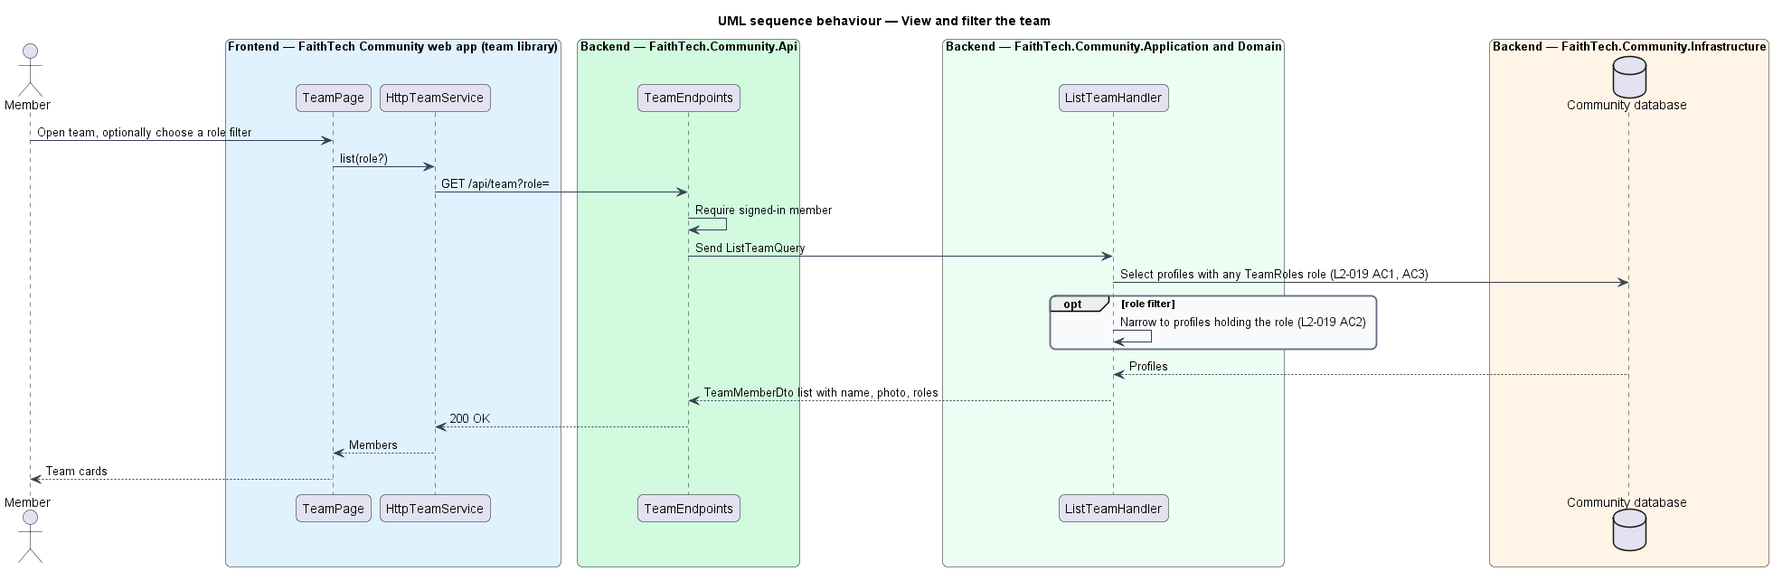
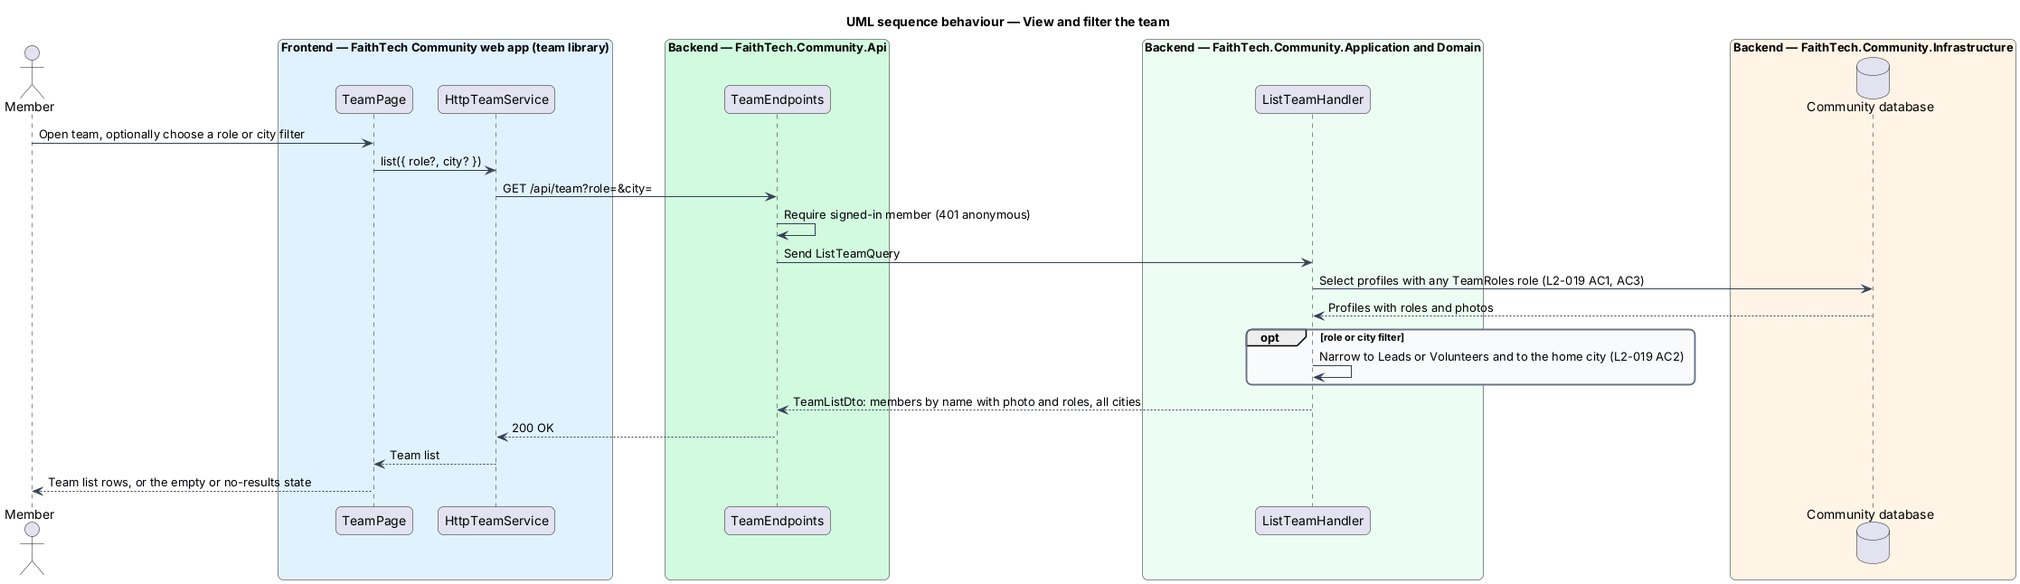
Close the team list documentation gaps
Record the filter values, default city, order and photo avatar in ADR 0007,
align the team mocks (photo avatar, All cities default, invite link, the
no-results chip), the design system's avatar and list pages, the screen
composition and the design's diagrams.

Claude-Session: https://claude.ai/code/session_018tigVHhJsJT7kAH3SsNvjZ

diff --git a/docs/mocks/pages/team/default.html b/docs/mocks/pages/team/default.html
@@ -31,8 +31,8 @@
   <a class="avatar-trigger" href="../../pages/profile/own.html" aria-label="Your profile, Grace Okonkwo"><span class="avatar avatar--sm avatar--sky" aria-hidden="true">GO</span></a>
 </header>
 <main id="main" class="container">
-<div class="page-header"><div><h1>Team</h1><p class="subtitle">Everyone with a lead or volunteer role</p></div><div class="cluster"><a class="btn btn--primary" href="../../dialogs/send-invite/default.html"><svg class="icon" aria-hidden="true" viewBox="0 0 24 24"><path d="M22 2 11 13M22 2l-7 20-4-9-9-4z"/></svg>Invite someone</a></div></div><div class="cluster" style="margin-bottom: var(--space-4);"><button class="chip" type="button" aria-pressed="true">All</button><button class="chip" type="button" aria-pressed="false">Leads</button><button class="chip" type="button" aria-pressed="false">Volunteers</button>
-<div style="width: 12rem; margin-left: auto;"><div class="field"><label class="field__label" for="tm-city">City</label><select class="select" id="tm-city" name="tm-city"><option selected>Toronto</option><option>Austin</option><option>Vancouver</option><option>All cities</option></select></div></div></div><ul class="list card card--flush"><li class="list__item"><span class="avatar avatar--sm avatar--sky" aria-hidden="true">GO</span><div class="list__body"><a class="list__title" href="../../pages/profile/default.html">Grace Okonkwo</a><div class="list__meta cluster" style="gap: var(--space-1);"><span class="badge badge--role">City Lead</span></div></div></li><li class="list__item"><span class="avatar avatar--sm avatar--sun" aria-hidden="true">ML</span><div class="list__body"><a class="list__title" href="../../pages/profile/default.html">Marcus Lee</a><div class="list__meta cluster" style="gap: var(--space-1);"><span class="badge badge--role">Event Lead</span></div></div></li><li class="list__item"><span class="avatar avatar--sm avatar--lilac" aria-hidden="true">HK</span><div class="list__body"><a class="list__title" href="../../pages/profile/default.html">Hannah Kim</a><div class="list__meta cluster" style="gap: var(--space-1);"><span class="badge badge--role">Communications Lead</span></div></div></li><li class="list__item"><span class="avatar avatar--sm avatar--mint" aria-hidden="true">SM</span><div class="list__body"><a class="list__title" href="../../pages/profile/default.html">Samuel Mensah</a><div class="list__meta cluster" style="gap: var(--space-1);"><span class="badge badge--role">Create Lead</span> <span class="badge badge--role">Product Engineer</span></div></div></li><li class="list__item"><span class="avatar avatar--sm avatar--rose" aria-hidden="true">RA</span><div class="list__body"><a class="list__title" href="../../pages/profile/default.html">Ruth Alvarez</a><div class="list__meta cluster" style="gap: var(--space-1);"><span class="badge badge--role">Volunteer</span></div></div></li></ul>
+<div class="page-header"><div><h1>Team</h1><p class="subtitle">Everyone with a lead or volunteer role</p></div><div class="cluster"><a class="btn btn--primary" href="../../pages/invites/default.html"><svg class="icon" aria-hidden="true" viewBox="0 0 24 24"><path d="M22 2 11 13M22 2l-7 20-4-9-9-4z"/></svg>Invite someone</a></div></div><div class="cluster" style="margin-bottom: var(--space-4);"><button class="chip" type="button" aria-pressed="true">All</button><button class="chip" type="button" aria-pressed="false">Leads</button><button class="chip" type="button" aria-pressed="false">Volunteers</button>
+<div style="width: 12rem; margin-left: auto;"><div class="field"><label class="field__label" for="tm-city">City</label><select class="select" id="tm-city" name="tm-city"><option selected>All cities</option><option>Austin</option><option>Toronto</option><option>Vancouver</option></select></div></div></div><ul class="list card card--flush"><li class="list__item"><span class="avatar avatar--sm avatar--sky" aria-hidden="true">GO<img class="avatar__img" src="../../assets/photos/builders-night.svg" alt=""></span><div class="list__body"><a class="list__title" href="../../pages/profile/default.html">Grace Okonkwo</a><div class="list__meta cluster" style="gap: var(--space-1);"><span class="badge badge--role">City Lead</span></div></div></li><li class="list__item"><span class="avatar avatar--sm avatar--sun" aria-hidden="true">ML</span><div class="list__body"><a class="list__title" href="../../pages/profile/default.html">Marcus Lee</a><div class="list__meta cluster" style="gap: var(--space-1);"><span class="badge badge--role">Event Lead</span></div></div></li><li class="list__item"><span class="avatar avatar--sm avatar--lilac" aria-hidden="true">HK</span><div class="list__body"><a class="list__title" href="../../pages/profile/default.html">Hannah Kim</a><div class="list__meta cluster" style="gap: var(--space-1);"><span class="badge badge--role">Communications Lead</span></div></div></li><li class="list__item"><span class="avatar avatar--sm avatar--mint" aria-hidden="true">SM</span><div class="list__body"><a class="list__title" href="../../pages/profile/default.html">Samuel Mensah</a><div class="list__meta cluster" style="gap: var(--space-1);"><span class="badge badge--role">Create Lead</span> <span class="badge badge--role">Product Engineer</span></div></div></li><li class="list__item"><span class="avatar avatar--sm avatar--rose" aria-hidden="true">RA</span><div class="list__body"><a class="list__title" href="../../pages/profile/default.html">Ruth Alvarez</a><div class="list__meta cluster" style="gap: var(--space-1);"><span class="badge badge--role">Volunteer</span></div></div></li></ul>
 </main>
 <nav class="tabbar" aria-label="Primary, phone"><a href="../../pages/home/default.html"><svg class="icon" aria-hidden="true" viewBox="0 0 24 24"><path d="M3 12 12 3l9 9M5 10v10h14V10"/></svg>Home</a><a href="../../pages/events/default.html"><svg class="icon" aria-hidden="true" viewBox="0 0 24 24"><rect x="3" y="5" width="18" height="16" rx="2"/><path d="M3 10h18M8 3v4M16 3v4"/></svg>Events</a><a href="../../pages/search/default.html"><svg class="icon" aria-hidden="true" viewBox="0 0 24 24"><circle cx="11" cy="11" r="7"/><path d="m20 20-3.5-3.5"/></svg>Search</a><a href="../../pages/contacts/default.html"><svg class="icon" aria-hidden="true" viewBox="0 0 24 24"><rect x="3" y="4" width="18" height="16" rx="2"/><circle cx="9" cy="11" r="2.5"/><path d="M5.5 17a3.5 3.5 0 0 1 7 0M15 9h3M15 13h3"/></svg>Contacts</a><a href="../../pages/partners/default.html"><svg class="icon" aria-hidden="true" viewBox="0 0 24 24"><path d="M2 12l4-4 4 2 4-4 4 4 4 2M6 8v7l4 4 2-2 2 2 4-4v-5"/></svg>Partners</a></nav>
 </div>

diff --git a/docs/mocks/pages/team/loading.html b/docs/mocks/pages/team/loading.html
@@ -31,8 +31,8 @@
   <a class="avatar-trigger" href="../../pages/profile/own.html" aria-label="Your profile, Grace Okonkwo"><span class="avatar avatar--sm avatar--sky" aria-hidden="true">GO</span></a>
 </header>
 <main id="main" class="container">
-<div class="page-header"><div><h1>Team</h1><p class="subtitle">Everyone with a lead or volunteer role</p></div><div class="cluster"><a class="btn btn--primary" href="../../dialogs/send-invite/default.html"><svg class="icon" aria-hidden="true" viewBox="0 0 24 24"><path d="M22 2 11 13M22 2l-7 20-4-9-9-4z"/></svg>Invite someone</a></div></div><div class="cluster" style="margin-bottom: var(--space-4);"><button class="chip" type="button" aria-pressed="true">All</button><button class="chip" type="button" aria-pressed="false">Leads</button><button class="chip" type="button" aria-pressed="false">Volunteers</button>
-<div style="width: 12rem; margin-left: auto;"><div class="field"><label class="field__label" for="tm-city">City</label><select class="select" id="tm-city" name="tm-city"><option selected>Toronto</option><option>Austin</option><option>Vancouver</option><option>All cities</option></select></div></div></div><div class="card card--flush" aria-busy="true" aria-label="Loading team"><div class="list__item"><span class="skeleton avatar avatar--sm" aria-hidden="true"></span><div class="list__body" style="flex:1;"><span class="skeleton skeleton--title" aria-hidden="true"></span><span class="skeleton skeleton--text" aria-hidden="true"></span></div></div><div class="list__item"><span class="skeleton avatar avatar--sm" aria-hidden="true"></span><div class="list__body" style="flex:1;"><span class="skeleton skeleton--title" aria-hidden="true"></span><span class="skeleton skeleton--text" aria-hidden="true"></span></div></div><div class="list__item"><span class="skeleton avatar avatar--sm" aria-hidden="true"></span><div class="list__body" style="flex:1;"><span class="skeleton skeleton--title" aria-hidden="true"></span><span class="skeleton skeleton--text" aria-hidden="true"></span></div></div><div class="list__item"><span class="skeleton avatar avatar--sm" aria-hidden="true"></span><div class="list__body" style="flex:1;"><span class="skeleton skeleton--title" aria-hidden="true"></span><span class="skeleton skeleton--text" aria-hidden="true"></span></div></div><div class="list__item"><span class="skeleton avatar avatar--sm" aria-hidden="true"></span><div class="list__body" style="flex:1;"><span class="skeleton skeleton--title" aria-hidden="true"></span><span class="skeleton skeleton--text" aria-hidden="true"></span></div></div></div>
+<div class="page-header"><div><h1>Team</h1><p class="subtitle">Everyone with a lead or volunteer role</p></div><div class="cluster"><a class="btn btn--primary" href="../../pages/invites/default.html"><svg class="icon" aria-hidden="true" viewBox="0 0 24 24"><path d="M22 2 11 13M22 2l-7 20-4-9-9-4z"/></svg>Invite someone</a></div></div><div class="cluster" style="margin-bottom: var(--space-4);"><button class="chip" type="button" aria-pressed="true">All</button><button class="chip" type="button" aria-pressed="false">Leads</button><button class="chip" type="button" aria-pressed="false">Volunteers</button>
+<div style="width: 12rem; margin-left: auto;"><div class="field"><label class="field__label" for="tm-city">City</label><select class="select" id="tm-city" name="tm-city"><option selected>All cities</option><option>Austin</option><option>Toronto</option><option>Vancouver</option></select></div></div></div><div class="card card--flush" aria-busy="true" aria-label="Loading team"><div class="list__item"><span class="skeleton avatar avatar--sm" aria-hidden="true"></span><div class="list__body" style="flex:1;"><span class="skeleton skeleton--title" aria-hidden="true"></span><span class="skeleton skeleton--text" aria-hidden="true"></span></div></div><div class="list__item"><span class="skeleton avatar avatar--sm" aria-hidden="true"></span><div class="list__body" style="flex:1;"><span class="skeleton skeleton--title" aria-hidden="true"></span><span class="skeleton skeleton--text" aria-hidden="true"></span></div></div><div class="list__item"><span class="skeleton avatar avatar--sm" aria-hidden="true"></span><div class="list__body" style="flex:1;"><span class="skeleton skeleton--title" aria-hidden="true"></span><span class="skeleton skeleton--text" aria-hidden="true"></span></div></div><div class="list__item"><span class="skeleton avatar avatar--sm" aria-hidden="true"></span><div class="list__body" style="flex:1;"><span class="skeleton skeleton--title" aria-hidden="true"></span><span class="skeleton skeleton--text" aria-hidden="true"></span></div></div><div class="list__item"><span class="skeleton avatar avatar--sm" aria-hidden="true"></span><div class="list__body" style="flex:1;"><span class="skeleton skeleton--title" aria-hidden="true"></span><span class="skeleton skeleton--text" aria-hidden="true"></span></div></div></div>
 </main>
 <nav class="tabbar" aria-label="Primary, phone"><a href="../../pages/home/default.html"><svg class="icon" aria-hidden="true" viewBox="0 0 24 24"><path d="M3 12 12 3l9 9M5 10v10h14V10"/></svg>Home</a><a href="../../pages/events/default.html"><svg class="icon" aria-hidden="true" viewBox="0 0 24 24"><rect x="3" y="5" width="18" height="16" rx="2"/><path d="M3 10h18M8 3v4M16 3v4"/></svg>Events</a><a href="../../pages/search/default.html"><svg class="icon" aria-hidden="true" viewBox="0 0 24 24"><circle cx="11" cy="11" r="7"/><path d="m20 20-3.5-3.5"/></svg>Search</a><a href="../../pages/contacts/default.html"><svg class="icon" aria-hidden="true" viewBox="0 0 24 24"><rect x="3" y="4" width="18" height="16" rx="2"/><circle cx="9" cy="11" r="2.5"/><path d="M5.5 17a3.5 3.5 0 0 1 7 0M15 9h3M15 13h3"/></svg>Contacts</a><a href="../../pages/partners/default.html"><svg class="icon" aria-hidden="true" viewBox="0 0 24 24"><path d="M2 12l4-4 4 2 4-4 4 4 4 2M6 8v7l4 4 2-2 2 2 4-4v-5"/></svg>Partners</a></nav>
 </div>

diff --git a/docs/mocks/pages/team/member.html b/docs/mocks/pages/team/member.html
@@ -32,7 +32,7 @@
 </header>
 <main id="main" class="container">
 <div class="page-header"><div><h1>Team</h1><p class="subtitle">Everyone with a lead or volunteer role</p></div></div><div class="cluster" style="margin-bottom: var(--space-4);"><button class="chip" type="button" aria-pressed="true">All</button><button class="chip" type="button" aria-pressed="false">Leads</button><button class="chip" type="button" aria-pressed="false">Volunteers</button>
-<div style="width: 12rem; margin-left: auto;"><div class="field"><label class="field__label" for="tm-city">City</label><select class="select" id="tm-city" name="tm-city"><option selected>Toronto</option><option>Austin</option><option>Vancouver</option><option>All cities</option></select></div></div></div><ul class="list card card--flush"><li class="list__item"><span class="avatar avatar--sm avatar--sky" aria-hidden="true">GO</span><div class="list__body"><a class="list__title" href="../../pages/profile/default.html">Grace Okonkwo</a><div class="list__meta cluster" style="gap: var(--space-1);"><span class="badge badge--role">City Lead</span></div></div></li><li class="list__item"><span class="avatar avatar--sm avatar--sun" aria-hidden="true">ML</span><div class="list__body"><a class="list__title" href="../../pages/profile/default.html">Marcus Lee</a><div class="list__meta cluster" style="gap: var(--space-1);"><span class="badge badge--role">Event Lead</span></div></div></li><li class="list__item"><span class="avatar avatar--sm avatar--lilac" aria-hidden="true">HK</span><div class="list__body"><a class="list__title" href="../../pages/profile/default.html">Hannah Kim</a><div class="list__meta cluster" style="gap: var(--space-1);"><span class="badge badge--role">Communications Lead</span></div></div></li><li class="list__item"><span class="avatar avatar--sm avatar--mint" aria-hidden="true">SM</span><div class="list__body"><a class="list__title" href="../../pages/profile/default.html">Samuel Mensah</a><div class="list__meta cluster" style="gap: var(--space-1);"><span class="badge badge--role">Create Lead</span> <span class="badge badge--role">Product Engineer</span></div></div></li><li class="list__item"><span class="avatar avatar--sm avatar--rose" aria-hidden="true">RA</span><div class="list__body"><a class="list__title" href="../../pages/profile/default.html">Ruth Alvarez</a><div class="list__meta cluster" style="gap: var(--space-1);"><span class="badge badge--role">Volunteer</span></div></div></li></ul>
+<div style="width: 12rem; margin-left: auto;"><div class="field"><label class="field__label" for="tm-city">City</label><select class="select" id="tm-city" name="tm-city"><option selected>All cities</option><option>Austin</option><option>Toronto</option><option>Vancouver</option></select></div></div></div><ul class="list card card--flush"><li class="list__item"><span class="avatar avatar--sm avatar--sky" aria-hidden="true">GO<img class="avatar__img" src="../../assets/photos/builders-night.svg" alt=""></span><div class="list__body"><a class="list__title" href="../../pages/profile/default.html">Grace Okonkwo</a><div class="list__meta cluster" style="gap: var(--space-1);"><span class="badge badge--role">City Lead</span></div></div></li><li class="list__item"><span class="avatar avatar--sm avatar--sun" aria-hidden="true">ML</span><div class="list__body"><a class="list__title" href="../../pages/profile/default.html">Marcus Lee</a><div class="list__meta cluster" style="gap: var(--space-1);"><span class="badge badge--role">Event Lead</span></div></div></li><li class="list__item"><span class="avatar avatar--sm avatar--lilac" aria-hidden="true">HK</span><div class="list__body"><a class="list__title" href="../../pages/profile/default.html">Hannah Kim</a><div class="list__meta cluster" style="gap: var(--space-1);"><span class="badge badge--role">Communications Lead</span></div></div></li><li class="list__item"><span class="avatar avatar--sm avatar--mint" aria-hidden="true">SM</span><div class="list__body"><a class="list__title" href="../../pages/profile/default.html">Samuel Mensah</a><div class="list__meta cluster" style="gap: var(--space-1);"><span class="badge badge--role">Create Lead</span> <span class="badge badge--role">Product Engineer</span></div></div></li><li class="list__item"><span class="avatar avatar--sm avatar--rose" aria-hidden="true">RA</span><div class="list__body"><a class="list__title" href="../../pages/profile/default.html">Ruth Alvarez</a><div class="list__meta cluster" style="gap: var(--space-1);"><span class="badge badge--role">Volunteer</span></div></div></li></ul>
 </main>
 <nav class="tabbar" aria-label="Primary, phone"><a href="../../pages/home/default.html"><svg class="icon" aria-hidden="true" viewBox="0 0 24 24"><path d="M3 12 12 3l9 9M5 10v10h14V10"/></svg>Home</a><a href="../../pages/events/default.html"><svg class="icon" aria-hidden="true" viewBox="0 0 24 24"><rect x="3" y="5" width="18" height="16" rx="2"/><path d="M3 10h18M8 3v4M16 3v4"/></svg>Events</a><a href="../../pages/search/default.html"><svg class="icon" aria-hidden="true" viewBox="0 0 24 24"><circle cx="11" cy="11" r="7"/><path d="m20 20-3.5-3.5"/></svg>Search</a></nav>
 </div>

diff --git a/docs/mocks/pages/team/empty.html b/docs/mocks/pages/team/empty.html
@@ -31,8 +31,8 @@
   <a class="avatar-trigger" href="../../pages/profile/own.html" aria-label="Your profile, Grace Okonkwo"><span class="avatar avatar--sm avatar--sky" aria-hidden="true">GO</span></a>
 </header>
 <main id="main" class="container">
-<div class="page-header"><div><h1>Team</h1><p class="subtitle">Everyone with a lead or volunteer role</p></div><div class="cluster"><a class="btn btn--primary" href="../../dialogs/send-invite/default.html"><svg class="icon" aria-hidden="true" viewBox="0 0 24 24"><path d="M22 2 11 13M22 2l-7 20-4-9-9-4z"/></svg>Invite someone</a></div></div><div class="cluster" style="margin-bottom: var(--space-4);"><button class="chip" type="button" aria-pressed="true">All</button><button class="chip" type="button" aria-pressed="false">Leads</button><button class="chip" type="button" aria-pressed="false">Volunteers</button>
-<div style="width: 12rem; margin-left: auto;"><div class="field"><label class="field__label" for="tm-city">City</label><select class="select" id="tm-city" name="tm-city"><option selected>Toronto</option><option>Austin</option><option>Vancouver</option><option>All cities</option></select></div></div></div><div class="empty"><span class="empty__icon" aria-hidden="true"><svg class="icon icon--lg" aria-hidden="true" viewBox="0 0 24 24"><circle cx="9" cy="8" r="4"/><path d="M2 21a7 7 0 0 1 14 0M16 3.5a4 4 0 0 1 0 7.5M22 21a7 7 0 0 0-4-6.3"/></svg></span><h2 class="empty__title">No team yet in Toronto</h2><p class="empty__text">Your team is everyone with a lead or volunteer role. Invite people, then give them a role.</p><div class="empty__actions"><a class="btn btn--primary" href="../../dialogs/send-invite/default.html"><svg class="icon" aria-hidden="true" viewBox="0 0 24 24"><path d="M22 2 11 13M22 2l-7 20-4-9-9-4z"/></svg>Invite someone</a></div></div>
+<div class="page-header"><div><h1>Team</h1><p class="subtitle">Everyone with a lead or volunteer role</p></div><div class="cluster"><a class="btn btn--primary" href="../../pages/invites/default.html"><svg class="icon" aria-hidden="true" viewBox="0 0 24 24"><path d="M22 2 11 13M22 2l-7 20-4-9-9-4z"/></svg>Invite someone</a></div></div><div class="cluster" style="margin-bottom: var(--space-4);"><button class="chip" type="button" aria-pressed="true">All</button><button class="chip" type="button" aria-pressed="false">Leads</button><button class="chip" type="button" aria-pressed="false">Volunteers</button>
+<div style="width: 12rem; margin-left: auto;"><div class="field"><label class="field__label" for="tm-city">City</label><select class="select" id="tm-city" name="tm-city"><option selected>All cities</option><option>Austin</option><option>Toronto</option><option>Vancouver</option></select></div></div></div><div class="empty"><span class="empty__icon" aria-hidden="true"><svg class="icon icon--lg" aria-hidden="true" viewBox="0 0 24 24"><circle cx="9" cy="8" r="4"/><path d="M2 21a7 7 0 0 1 14 0M16 3.5a4 4 0 0 1 0 7.5M22 21a7 7 0 0 0-4-6.3"/></svg></span><h2 class="empty__title">No team yet</h2><p class="empty__text">Your team is everyone with a lead or volunteer role. Invite people, then give them a role.</p><div class="empty__actions"><a class="btn btn--primary" href="../../pages/invites/default.html"><svg class="icon" aria-hidden="true" viewBox="0 0 24 24"><path d="M22 2 11 13M22 2l-7 20-4-9-9-4z"/></svg>Invite someone</a></div></div>
 </main>
 <nav class="tabbar" aria-label="Primary, phone"><a href="../../pages/home/default.html"><svg class="icon" aria-hidden="true" viewBox="0 0 24 24"><path d="M3 12 12 3l9 9M5 10v10h14V10"/></svg>Home</a><a href="../../pages/events/default.html"><svg class="icon" aria-hidden="true" viewBox="0 0 24 24"><rect x="3" y="5" width="18" height="16" rx="2"/><path d="M3 10h18M8 3v4M16 3v4"/></svg>Events</a><a href="../../pages/search/default.html"><svg class="icon" aria-hidden="true" viewBox="0 0 24 24"><circle cx="11" cy="11" r="7"/><path d="m20 20-3.5-3.5"/></svg>Search</a><a href="../../pages/contacts/default.html"><svg class="icon" aria-hidden="true" viewBox="0 0 24 24"><rect x="3" y="4" width="18" height="16" rx="2"/><circle cx="9" cy="11" r="2.5"/><path d="M5.5 17a3.5 3.5 0 0 1 7 0M15 9h3M15 13h3"/></svg>Contacts</a><a href="../../pages/partners/default.html"><svg class="icon" aria-hidden="true" viewBox="0 0 24 24"><path d="M2 12l4-4 4 2 4-4 4 4 4 2M6 8v7l4 4 2-2 2 2 4-4v-5"/></svg>Partners</a></nav>
 </div>

diff --git a/docs/mocks/pages/team/error.html b/docs/mocks/pages/team/error.html
@@ -31,8 +31,8 @@
   <a class="avatar-trigger" href="../../pages/profile/own.html" aria-label="Your profile, Grace Okonkwo"><span class="avatar avatar--sm avatar--sky" aria-hidden="true">GO</span></a>
 </header>
 <main id="main" class="container">
-<div class="page-header"><div><h1>Team</h1><p class="subtitle">Everyone with a lead or volunteer role</p></div><div class="cluster"><a class="btn btn--primary" href="../../dialogs/send-invite/default.html"><svg class="icon" aria-hidden="true" viewBox="0 0 24 24"><path d="M22 2 11 13M22 2l-7 20-4-9-9-4z"/></svg>Invite someone</a></div></div><div class="cluster" style="margin-bottom: var(--space-4);"><button class="chip" type="button" aria-pressed="true">All</button><button class="chip" type="button" aria-pressed="false">Leads</button><button class="chip" type="button" aria-pressed="false">Volunteers</button>
-<div style="width: 12rem; margin-left: auto;"><div class="field"><label class="field__label" for="tm-city">City</label><select class="select" id="tm-city" name="tm-city"><option selected>Toronto</option><option>Austin</option><option>Vancouver</option><option>All cities</option></select></div></div></div><div class="empty empty--error" role="alert"><span class="empty__icon" aria-hidden="true"><svg class="icon icon--lg" aria-hidden="true" viewBox="0 0 24 24"><circle cx="12" cy="12" r="9"/><path d="M12 8v4M12 16h.01"/></svg></span><h2 class="empty__title">We couldn’t load the team</h2><p class="empty__text">Check your connection and try again. If it keeps happening, we’ve already been told about it.</p><div class="empty__actions"><button class="btn btn--primary" type="button"><svg class="icon" aria-hidden="true" viewBox="0 0 24 24"><path d="M21 12a9 9 0 1 1-3-6.7L21 8M21 3v5h-5"/></svg>Try again</button></div></div>
+<div class="page-header"><div><h1>Team</h1><p class="subtitle">Everyone with a lead or volunteer role</p></div><div class="cluster"><a class="btn btn--primary" href="../../pages/invites/default.html"><svg class="icon" aria-hidden="true" viewBox="0 0 24 24"><path d="M22 2 11 13M22 2l-7 20-4-9-9-4z"/></svg>Invite someone</a></div></div><div class="cluster" style="margin-bottom: var(--space-4);"><button class="chip" type="button" aria-pressed="true">All</button><button class="chip" type="button" aria-pressed="false">Leads</button><button class="chip" type="button" aria-pressed="false">Volunteers</button>
+<div style="width: 12rem; margin-left: auto;"><div class="field"><label class="field__label" for="tm-city">City</label><select class="select" id="tm-city" name="tm-city"><option selected>All cities</option><option>Austin</option><option>Toronto</option><option>Vancouver</option></select></div></div></div><div class="empty empty--error" role="alert"><span class="empty__icon" aria-hidden="true"><svg class="icon icon--lg" aria-hidden="true" viewBox="0 0 24 24"><circle cx="12" cy="12" r="9"/><path d="M12 8v4M12 16h.01"/></svg></span><h2 class="empty__title">We couldn’t load the team</h2><p class="empty__text">Check your connection and try again. If it keeps happening, we’ve already been told about it.</p><div class="empty__actions"><button class="btn btn--primary" type="button"><svg class="icon" aria-hidden="true" viewBox="0 0 24 24"><path d="M21 12a9 9 0 1 1-3-6.7L21 8M21 3v5h-5"/></svg>Try again</button></div></div>
 </main>
 <nav class="tabbar" aria-label="Primary, phone"><a href="../../pages/home/default.html"><svg class="icon" aria-hidden="true" viewBox="0 0 24 24"><path d="M3 12 12 3l9 9M5 10v10h14V10"/></svg>Home</a><a href="../../pages/events/default.html"><svg class="icon" aria-hidden="true" viewBox="0 0 24 24"><rect x="3" y="5" width="18" height="16" rx="2"/><path d="M3 10h18M8 3v4M16 3v4"/></svg>Events</a><a href="../../pages/search/default.html"><svg class="icon" aria-hidden="true" viewBox="0 0 24 24"><circle cx="11" cy="11" r="7"/><path d="m20 20-3.5-3.5"/></svg>Search</a><a href="../../pages/contacts/default.html"><svg class="icon" aria-hidden="true" viewBox="0 0 24 24"><rect x="3" y="4" width="18" height="16" rx="2"/><circle cx="9" cy="11" r="2.5"/><path d="M5.5 17a3.5 3.5 0 0 1 7 0M15 9h3M15 13h3"/></svg>Contacts</a><a href="../../pages/partners/default.html"><svg class="icon" aria-hidden="true" viewBox="0 0 24 24"><path d="M2 12l4-4 4 2 4-4 4 4 4 2M6 8v7l4 4 2-2 2 2 4-4v-5"/></svg>Partners</a></nav>
 </div>

diff --git a/docs/mocks/pages/team/no-results.html b/docs/mocks/pages/team/no-results.html
@@ -31,8 +31,8 @@
   <a class="avatar-trigger" href="../../pages/profile/own.html" aria-label="Your profile, Grace Okonkwo"><span class="avatar avatar--sm avatar--sky" aria-hidden="true">GO</span></a>
 </header>
 <main id="main" class="container">
-<div class="page-header"><div><h1>Team</h1><p class="subtitle">Everyone with a lead or volunteer role</p></div><div class="cluster"><a class="btn btn--primary" href="../../dialogs/send-invite/default.html"><svg class="icon" aria-hidden="true" viewBox="0 0 24 24"><path d="M22 2 11 13M22 2l-7 20-4-9-9-4z"/></svg>Invite someone</a></div></div><div class="cluster" style="margin-bottom: var(--space-4);"><button class="chip" type="button" aria-pressed="true">All</button><button class="chip" type="button" aria-pressed="false">Leads</button><button class="chip" type="button" aria-pressed="true">Volunteers</button>
-<div style="width: 12rem; margin-left: auto;"><div class="field"><label class="field__label" for="tm-city">City</label><select class="select" id="tm-city" name="tm-city"><option>Toronto</option><option>Austin</option><option selected>Vancouver</option><option>All cities</option></select></div></div></div><div class="empty"><span class="empty__icon" aria-hidden="true"><svg class="icon icon--lg" aria-hidden="true" viewBox="0 0 24 24"><circle cx="9" cy="8" r="4"/><path d="M2 21a7 7 0 0 1 14 0M16 3.5a4 4 0 0 1 0 7.5M22 21a7 7 0 0 0-4-6.3"/></svg></span><h2 class="empty__title">No volunteers in Vancouver yet</h2><p class="empty__text">Try a different role or city.</p><div class="empty__actions"><a class="btn" href="default.html">Show everyone</a></div></div>
+<div class="page-header"><div><h1>Team</h1><p class="subtitle">Everyone with a lead or volunteer role</p></div><div class="cluster"><a class="btn btn--primary" href="../../pages/invites/default.html"><svg class="icon" aria-hidden="true" viewBox="0 0 24 24"><path d="M22 2 11 13M22 2l-7 20-4-9-9-4z"/></svg>Invite someone</a></div></div><div class="cluster" style="margin-bottom: var(--space-4);"><button class="chip" type="button" aria-pressed="false">All</button><button class="chip" type="button" aria-pressed="false">Leads</button><button class="chip" type="button" aria-pressed="true">Volunteers</button>
+<div style="width: 12rem; margin-left: auto;"><div class="field"><label class="field__label" for="tm-city">City</label><select class="select" id="tm-city" name="tm-city"><option>All cities</option><option>Austin</option><option>Toronto</option><option selected>Vancouver</option></select></div></div></div><div class="empty"><span class="empty__icon" aria-hidden="true"><svg class="icon icon--lg" aria-hidden="true" viewBox="0 0 24 24"><circle cx="9" cy="8" r="4"/><path d="M2 21a7 7 0 0 1 14 0M16 3.5a4 4 0 0 1 0 7.5M22 21a7 7 0 0 0-4-6.3"/></svg></span><h2 class="empty__title">No volunteers in Vancouver yet</h2><p class="empty__text">Try a different role or city.</p><div class="empty__actions"><a class="btn" href="default.html">Show everyone</a></div></div>
 </main>
 <nav class="tabbar" aria-label="Primary, phone"><a href="../../pages/home/default.html"><svg class="icon" aria-hidden="true" viewBox="0 0 24 24"><path d="M3 12 12 3l9 9M5 10v10h14V10"/></svg>Home</a><a href="../../pages/events/default.html"><svg class="icon" aria-hidden="true" viewBox="0 0 24 24"><rect x="3" y="5" width="18" height="16" rx="2"/><path d="M3 10h18M8 3v4M16 3v4"/></svg>Events</a><a href="../../pages/search/default.html"><svg class="icon" aria-hidden="true" viewBox="0 0 24 24"><circle cx="11" cy="11" r="7"/><path d="m20 20-3.5-3.5"/></svg>Search</a><a href="../../pages/contacts/default.html"><svg class="icon" aria-hidden="true" viewBox="0 0 24 24"><rect x="3" y="4" width="18" height="16" rx="2"/><circle cx="9" cy="11" r="2.5"/><path d="M5.5 17a3.5 3.5 0 0 1 7 0M15 9h3M15 13h3"/></svg>Contacts</a><a href="../../pages/partners/default.html"><svg class="icon" aria-hidden="true" viewBox="0 0 24 24"><path d="M2 12l4-4 4 2 4-4 4 4 4 2M6 8v7l4 4 2-2 2 2 4-4v-5"/></svg>Partners</a></nav>
 </div>

diff --git a/docs/design-system/components/avatar.html b/docs/design-system/components/avatar.html
@@ -105,7 +105,7 @@
         <li><b>Plain</b> (no colour modifier): private contacts who have not signed up, such as Abby Brooks and Kwame Asante, and suspended accounts such as Victor Kane.</li>
         <li>In Angular, use <code>&lt;ft-avatar&gt;</code> from the components library.</li>
       </ul>
-      <p>The mocks show initials only; no member photo is used as an avatar in v1 (profile photos live in the <a href="picture-list.html">picture list</a>). Do not use an avatar for status (use a <a href="badge.html">badge</a>) or for a partner organisation.</p>
+      <p>An avatar shows initials, or the member’s featured photo where a screen promises a photo, such as the <a href="../../mocks/pages/team/default.html">team list</a> (<code>.avatar__img</code>, <code>alt=""</code>, initials stay behind it as the fallback). Do not use an avatar for status (use a <a href="badge.html">badge</a>) or for a partner organisation.</p>
     </section>
 
     <section class="ds-section" id="anatomy"><h2><a href="#anatomy">Anatomy</a></h2>
@@ -130,6 +130,12 @@
         <details class="ds-example__code"><summary>HTML</summary><pre><code>&lt;span class="avatar avatar--sky" aria-hidden="true"&gt;GO&lt;/span&gt;
 &lt;span class="avatar avatar--mint" aria-hidden="true"&gt;SM&lt;/span&gt;
 &lt;span class="avatar" aria-hidden="true"&gt;KA&lt;/span&gt;</code></pre></details>
+      </div>
+      <h3>Photo</h3>
+      <div class="ds-example">
+        <div class="ds-example__canvas"><span class="avatar avatar--sky" aria-hidden="true">GO<img class="avatar__img" src="../../mocks/assets/photos/builders-night.svg" alt=""></span><span class="avatar avatar--sm avatar--sky" aria-hidden="true">GO<img class="avatar__img" src="../../mocks/assets/photos/builders-night.svg" alt=""></span></div>
+        <div class="ds-example__caption"><span>Grace’s featured photo covers her initials. The image is decorative (<code>alt=""</code>) because her name is printed beside it; without a photo the initials show.</span></div>
+        <details class="ds-example__code"><summary>HTML</summary><pre><code>&lt;span class="avatar avatar--sm avatar--sky" aria-hidden="true"&gt;GO&lt;img class="avatar__img" src="…" alt=""&gt;&lt;/span&gt;</code></pre></details>
       </div>
       <h3>Avatar trigger</h3>
       <div class="ds-example">
@@ -253,7 +259,8 @@
 &lt;span class="avatar avatar--xl avatar--mint" aria-hidden="true"&gt;SM&lt;/span&gt;
 
 &lt;!-- Angular (components library) --&gt;
-&lt;ft-avatar [name]="member.displayName" [color]="member.color" size="sm" /&gt;</code></pre>
+&lt;ft-avatar [name]="member.displayName" [color]="member.color" size="sm" /&gt;
+&lt;ft-avatar [name]="member.name" [src]="member.photoUrl" size="sm" /&gt;</code></pre>
       <table class="ds-table"><thead><tr><th scope="col">Class / attribute</th><th scope="col">Effect</th></tr></thead><tbody>
         <tr><td><code>.avatar</code></td><td>Medium circle, accent tint, centred initials.</td></tr>
         <tr><td><code>.avatar--sm</code> <code>.avatar--lg</code> <code>.avatar--xl</code></td><td>Small, large or extra large; omit for medium.</td></tr>

diff --git a/docs/design-system/components/list.html b/docs/design-system/components/list.html
@@ -257,7 +257,12 @@
 
 &lt;!-- Angular --&gt;
 &lt;ft-list&gt;
-  &lt;ft-list-item [title]="c.name" [link]="['/contacts', c.id]" [meta]="c.summary"&gt;…&lt;/ft-list-item&gt;
+  &lt;ft-list-item [label]="c.name" [href]="'/contacts/' + c.id" [meta]="c.summary"&gt;…&lt;/ft-list-item&gt;
+  &lt;!-- Role badges in the meta line: project them into the [meta] slot --&gt;
+  &lt;ft-list-item [label]="m.name" [href]="'/people/' + m.profileId"&gt;
+    &lt;ft-avatar leading [name]="m.name" [src]="m.photoUrl" size="sm" /&gt;
+    &lt;ft-cluster meta&gt;&lt;ft-badge variant="role"&gt;City Lead&lt;/ft-badge&gt;&lt;/ft-cluster&gt;
+  &lt;/ft-list-item&gt;
 &lt;/ft-list&gt;</code></pre>
       <table class="ds-table"><thead><tr><th scope="col">Class / attribute</th><th scope="col">Effect</th></tr></thead><tbody>
         <tr><td><code>.list</code></td><td>Unstyled vertical list.</td></tr>

diff --git a/docs/screen-composition.md b/docs/screen-composition.md
@@ -4,13 +4,13 @@ Which `@faithtech-community/components` parts build each screen, and what is bui
 
 **Local UI** is markup a feature library writes itself. It is limited to page composition: headings that belong to the page, sections and the glue between `api` services and components. Anything reusable goes into `components` first (`AGENTS.md`).
 
-Coverage: the profiles screens (`profile`, `edit-profile`, `delete-photo`), the admin screens (`admin-users`, `audit-log`, `add-role`, `remove-role`, `suspend-user`) and the invites screens (`invites`, `accept-invite`, `send-invite`). Other screens are added here as their features are built.
+Coverage: the profiles screens (`profile`, `edit-profile`, `delete-photo`), the admin screens (`admin-users`, `audit-log`, `add-role`, `remove-role`, `suspend-user`) the invites screens (`invites`, `accept-invite`, `send-invite`) and the team list (`team`). Other screens are added here as their features are built.
 
 ## Shell
 
 | Part | Library | Local |
 |---|---|---|
-| App shell around `/people/**`, `/admin/**`, `/invites` | `TopBarComponent` with an `AvatarComponent` link "Your profile, {name}" to `/people/me`, `NavDrawerComponent`, `TabBarComponent`, `SkipLinkComponent`, `ToastRegionComponent` (in `AppShellComponent`). System Admins get an **Admin** link (secondary) to `/admin`. | — |
+| App shell around `/people/**`, `/team`, `/admin/**`, `/invites` | `TopBarComponent` with an `AvatarComponent` link "Your profile, {name}" to `/people/me`, `NavDrawerComponent`, `TabBarComponent`, `SkipLinkComponent`, `ToastRegionComponent` (in `AppShellComponent`). System Admins get an **Admin** link (secondary) to `/admin`. | — |
 
 ## Pages
 
@@ -50,6 +50,11 @@ Coverage: the profiles screens (`profile`, `edit-profile`, `delete-photo`), the 
 - Library: `AuthLayoutComponent`, `CardComponent`, `StackComponent`, `ClusterComponent` + `AvatarComponent` + `BadgeComponent` `role` (the invitation line), `AlertComponent` (error summary "Fix N things to accept the invite"; unreachable), `FormFieldComponent` + `TextFieldComponent` (Full name; Email read-only with help; Create a password with `reveal`), `FormErrorFocusDirective`, `ButtonComponent` (*Accept and join*, *Accept invite*, *Sign in to accept*, *Create an account*, *Go home*), `EmptyStateComponent` error variant with `headingLevel` 1 (expired, used, withdrawn, unknown link, wrong account), `SkeletonComponent` while the token is checked.
 - Local: the `<form>` element and the `h1` "You’re invited".
 
+### Team — `/team` (`pages/team`: default, member, loading, empty, no-results, error)
+
+- Library: `PageHeaderComponent` ("Team", "Everyone with a lead or volunteer role") with *Invite someone* (`ButtonComponent` `primary` link to `/invites`, leads and System Admins only; `member` hides it), `ClusterComponent` of `ChipComponent` toggles (All, Leads, Volunteers; one pressed) and `FormFieldComponent` + `SelectComponent` (City: All cities and every team member's home city), `CardComponent` `flush` + `ListComponent` + `ListItemComponent` (name linking to `/people/:id`, leading `AvatarComponent` `sm` with the featured photo through `src`, `[meta]` slot holding a `BadgeComponent` `role` per role), `ListSkeletonComponent` (5 rows), `EmptyStateComponent` (empty with *Invite someone* for leads; no-results "No {volunteers|leads|team members} in {city} yet" with *Show everyone*; error with *Try again*).
+- Local: none beyond composition.
+
 ## Dialogs
 
 | Dialog (mock: states) | Surface | Library | Local |
@@ -66,4 +71,5 @@ None for profiles. Admin and invites use `ToastService` success toasts on the in
 ## Summary of local UI to build
 
 1. Admin and invites added to the library rather than building locally: `RoleDialogComponent` (shared by `profiles` and later `admin` screens, ADR 0005), `ListSkeletonComponent` (loading lists and tables), `EmptyStateComponent` `headingLevel` 1 (full-page errors on the accept-invite page), `TableComponent` now contains its visually hidden headers so tables scroll inside their frame on phones, and `formatDay` / `formatTimestamp` give the mocks' date formats from the browser's `Intl` (keeping Angular's locale data out of the initial bundle).
-2. Nothing reusable: every profiles screen is composed from the library. `PictureListComponent` gained a per-photo `pending` flag for photos chosen but not saved yet (design system: `components/picture-list.html`).
+2. Team added to the library: `AvatarComponent` `src` shows a member's featured photo over the initials (ADR 0007), and `ListItemComponent` gained a `[meta]` slot for the role-badge meta line (`components/list.html`).
+3. Nothing reusable: every profiles screen is composed from the library. `PictureListComponent` gained a per-photo `pending` flag for photos chosen but not saved yet (design system: `components/picture-list.html`).

diff --git a/docs/detailed-designs/team/team-list/README.md b/docs/detailed-designs/team/team-list/README.md
@@ -8,14 +8,15 @@ The team page lets any signed-in member see who the team is, with name, photo an
 
 ## Description
 
-- **`TeamPage`** — page in the `team` feature library. It lists team members as cards with avatar (featured photo), name and role badges, and offers a role filter.
-- **`TeamService`** / **`TEAM_SERVICE`** / **`HttpTeamService`** — API client calling `GET /api/team?role=`.
-- **`TeamEndpoints`** — minimal API mapping requiring an authenticated caller.
-- **`ListTeamQuery`** (`Role?`) and **`ListTeamHandler`** in Application `Team/`. The handler selects profiles whose roles intersect `TeamRoles`, optionally narrowed to the filtered role.
-- **`TeamRoles`** — Domain constant set: City Lead, Event Lead, Create Lead, Communications Lead, Volunteer. `TeamRoles.IsTeamMember(profile)` is true while the profile holds one of them; the Agile workspace membership rule reuses it.
-- **`TeamMemberDto`** — `ProfileId`, `Name`, `PhotoUrl`, `Roles`.
+- **`TeamPage`** — page at `/team` in the `team` feature library. It lists team members in a list card with avatar (featured photo, initials without one), name linking to the profile and role badges, and offers role chips (All, Leads, Volunteers) and a city select. Leads and System Admins see **Invite someone**, a link to `/invites`.
+- **`TeamService`** / **`TEAM_SERVICE`** / **`HttpTeamService`** — API client calling `GET /api/team?role=&city=`.
+- **`TeamEndpoints`** — minimal API mapping requiring an authenticated caller (`401` anonymous).
+- **`ListTeamQuery`** (`TeamRoleFilter?` Leads or Volunteers, `City?`) and **`ListTeamHandler`** in Application `Team/`. The handler selects profiles whose roles intersect `TeamRoles`, narrowed to `TeamRoles.Leads` or Volunteer and to a home city (case-insensitive), sorted by name.
+- **`TeamRoles`** — Domain constant sets: `All` (City Lead, Event Lead, Create Lead, Communications Lead, Volunteer) and `Leads` (the four lead roles). `TeamRoles.IsTeamMember(profile)` is true while the profile holds one of them; the Agile workspace membership rule reuses it.
+- **`TeamListDto`** — `Members` (`TeamMemberDto`) and `Cities`, every team member's distinct home city whatever the filters.
+- **`TeamMemberDto`** — `ProfileId`, `Name`, `HomeCity`, `PhotoUrl` (featured photo or `null`), `Roles` (every role held).
 
-Sort order and paging of the team list: `<TO SUPPLY>`.
+Sorted by name, no paging, opening on All and All cities ([ADR 0007](../../../adr/0007-team-list-filters-and-photos.md)).
 
 ## Requirements
 
@@ -70,3 +71,5 @@ Membership is computed from current roles, so a profile that loses its last team
 Decisions recorded while building the Domain layer (`FaithTech.Community.Domain`):
 
 - Team membership stays derived from roles through `TeamRoles.IsTeamMember`; nothing is stored. Resolved.
+- Sort order, paging, filter values, the default city and the photo avatar: resolved in [ADR 0007](../../../adr/0007-team-list-filters-and-photos.md).
+- Hiding suspended profiles from the team: deferred to the admin subsystem.

diff --git a/docs/adr/0007-team-list-filters-and-photos.md b/docs/adr/0007-team-list-filters-and-photos.md
@@ -1,0 +1,27 @@
+# 0007. Team list filters, order and photos
+
+- Status: Accepted
+- Date: 2026-10-21
+- Requirements: L2-019, L2-005
+- Designs: `docs/detailed-designs/team/team-list`
+
+## Context
+
+L2-019 asks for a team list with name, photo and roles, a role filter (Leads or Volunteers) and a city filter. The design left the sort order and paging open, the mocks showed a city preselected without saying which, and the design system said avatars carry initials only, while the requirement asks for a photo.
+
+## Decision
+
+- Membership stays derived from roles (`TeamRoles.IsTeamMember`) on every request; nothing is stored, so a profile that loses its last team role drops off at once.
+- `GET /api/team?role=Leads|Volunteers&city=` requires a signed-in caller. **Leads** are City, Event, Create and Communications Lead (`TeamRoles.Leads`); **Volunteers** is the Volunteer role. An unknown role filter answers `400`.
+- The city filter matches the profile's home city, ignoring case and surrounding spaces. It is a filter, not a permission boundary: data stays global.
+- The response is `{ members, cities }`. `cities` lists every team member's home city, whatever the filters, so the city select keeps its options while filtered.
+- Members are sorted by name (case-insensitive). There is no paging: the team is a few dozen people per city; paging is deferred until it is not.
+- Each member carries every role they hold (a Create Lead who is also a Product Engineer shows both badges) and the URL of their featured photo, or `null`.
+- The avatar component gains a photo: with `src` it shows the image (decorative, `alt=""`, because the name is printed beside it) and falls back to initials without one.
+- The page opens on **All** and **All cities**. Leads and System Admins see **Invite someone**, a link to `/invites`, because the team library cannot depend on the invites library.
+- Suspended profiles still appear while they hold a team role; hiding them is deferred to the admin subsystem.
+
+## Consequences
+
+- One request serves both filters and the city options.
+- A team that outgrows one page needs paging added to the endpoint and the page.
